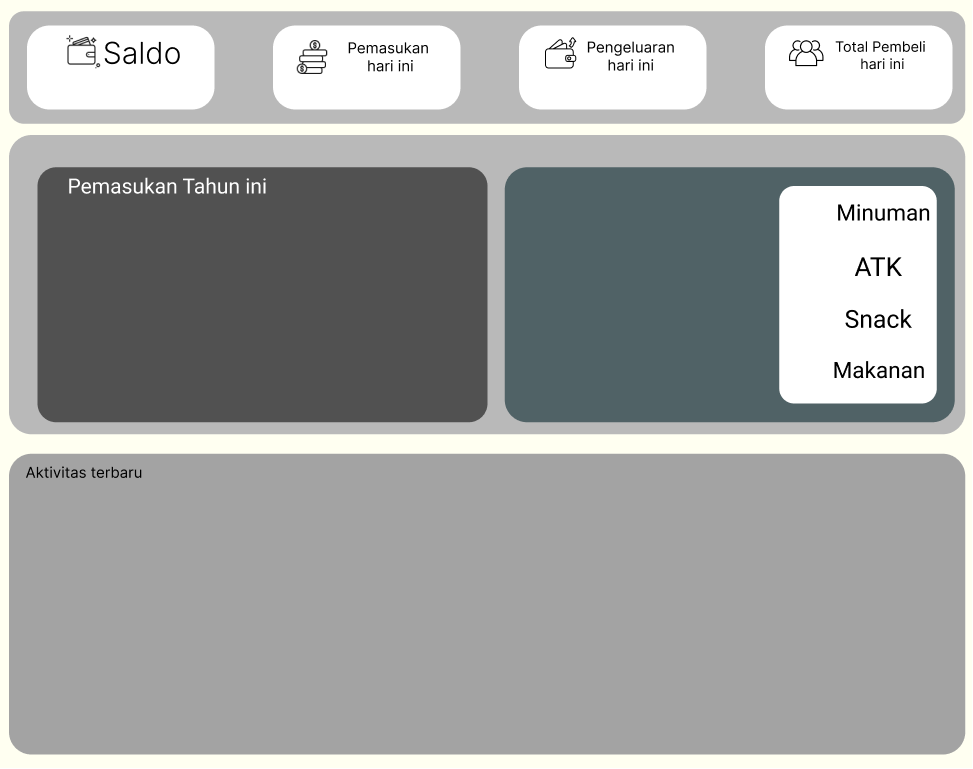
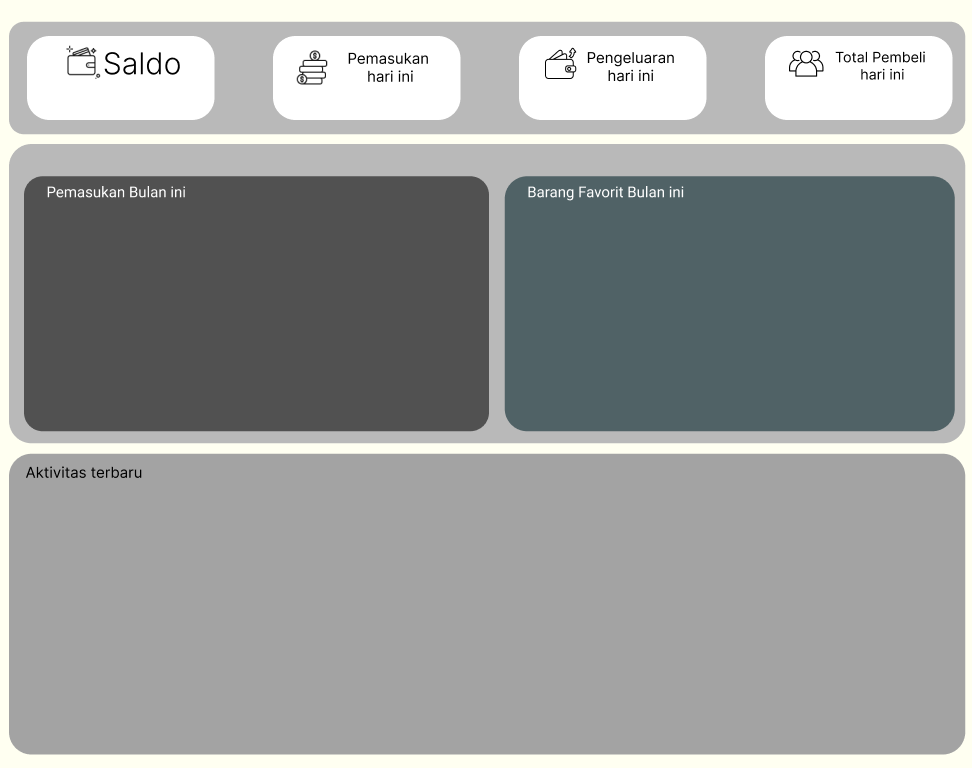
update

Changed region(s): [[0.0, 0.2185, 1.0, 0.593], [0.0, 0.0, 1.0, 0.2185]]

diff --git a/src/com/window/panels/Dashboard.java b/src/com/window/panels/Dashboard.java
@@ -1,5 +1,12 @@
 package com.window.panels;
 
+import javafx.application.Application;
+import javafx.scene.Scene;
+import javafx.scene.chart.BarChart;
+import javafx.scene.chart.CategoryAxis;
+import javafx.scene.chart.NumberAxis;
+import javafx.scene.chart.XYChart;
+import javafx.stage.Stage;
 import java.util.Date;
 import com.manage.Chart;
 import com.manage.Message;
@@ -20,6 +27,7 @@ import java.util.logging.Level;
 import java.util.logging.Logger;
 import javax.swing.event.TableModelListener;
 import javax.swing.table.DefaultTableModel;
+import javax.swing.table.TableColumnModel;
 import javax.swing.table.TableModel;
 import org.jfree.chart.ChartFactory;
 import org.jfree.chart.ChartPanel;
@@ -62,12 +70,15 @@ public class Dashboard extends javax.swing.JPanel {
     private final DateFormat tanggalFull = new SimpleDateFormat("yyyy-MM-dd hh:mm:ss ");
     private final DateFormat date = new SimpleDateFormat("dd-MM-yyyy");
     private final DateFormat date1 = new SimpleDateFormat("yyyy-MM-dd");
+    private final DateFormat time12 = new SimpleDateFormat("hh:mm:ss");
     private final DateFormat time = new SimpleDateFormat("hh:mm:ss");
     private final DateFormat timeMillis = new SimpleDateFormat("ss.SSS:mm:hh");
     private String keyword = "";
+ 
     public Dashboard() throws ParseException {
         initComponents();
         updateTabel();
+//        start(pnlLineChart);
         this.hari = waktu.getTanggal();
         this.bulan = waktu.getBulan()+1;
         this.tahun = waktu.getTahun();
@@ -80,8 +91,8 @@ public class Dashboard extends javax.swing.JPanel {
         pMinuman = getJenis("MINUMAN");
         pSnack = getJenis("SNACK");
         pAtk = getJenis("ATK");
-        this.chart.showPieChart(this.pnlPieChart, "", 40, 20, 15, 25);
-//        this.chart.showPieChart(this.pnlPieChart, "", pMakanan, pMinuman, pSnack, pAtk);
+//        this.chart.showPieChart(this.pnlPieChart, "", 40, 20, 15, 25);
+        this.chart.showPieChart(this.pnlPieChart, "", pMakanan, pMinuman, pSnack, pAtk);
         this.chart.lineChartPenjualan(this.pnlLineChart);
         this.showLineChart();
         
@@ -193,10 +204,6 @@ public class Dashboard extends javax.swing.JPanel {
         lblPemasukan = new javax.swing.JLabel();
         lblPengeluaran = new javax.swing.JLabel();
         lblPembeli = new javax.swing.JLabel();
-        lblMakanan = new javax.swing.JLabel();
-        lblMinuman = new javax.swing.JLabel();
-        lblAtk = new javax.swing.JLabel();
-        lblSnack = new javax.swing.JLabel();
         jScrollPane2 = new javax.swing.JScrollPane();
         tabelData = new javax.swing.JTable();
         pnlLineChart = new javax.swing.JPanel();
@@ -221,22 +228,6 @@ public class Dashboard extends javax.swing.JPanel {
 
         lblPembeli.setHorizontalAlignment(javax.swing.SwingConstants.CENTER);
         add(lblPembeli, new org.netbeans.lib.awtextra.AbsoluteConstraints(780, 80, 160, 20));
-
-        lblMakanan.setBackground(new java.awt.Color(10, 255, 108));
-        lblMakanan.setOpaque(true);
-        add(lblMakanan, new org.netbeans.lib.awtextra.AbsoluteConstraints(790, 350, 40, 35));
-
-        lblMinuman.setBackground(new java.awt.Color(2, 99, 255));
-        lblMinuman.setOpaque(true);
-        add(lblMinuman, new org.netbeans.lib.awtextra.AbsoluteConstraints(790, 195, 40, 35));
-
-        lblAtk.setBackground(new java.awt.Color(255, 233, 35));
-        lblAtk.setOpaque(true);
-        add(lblAtk, new org.netbeans.lib.awtextra.AbsoluteConstraints(790, 250, 40, 35));
-
-        lblSnack.setBackground(new java.awt.Color(255, 51, 102));
-        lblSnack.setOpaque(true);
-        add(lblSnack, new org.netbeans.lib.awtextra.AbsoluteConstraints(790, 300, 40, 35));
 
         tabelData.setFont(new java.awt.Font("Ebrima", 1, 14)); // NOI18N
         tabelData.setForeground(new java.awt.Color(0, 0, 0));
@@ -292,12 +283,12 @@ public class Dashboard extends javax.swing.JPanel {
         pnlLineChart.setBackground(new java.awt.Color(255, 255, 255));
         pnlLineChart.setForeground(new java.awt.Color(226, 226, 0));
         pnlLineChart.setLayout(new java.awt.BorderLayout());
-        add(pnlLineChart, new org.netbeans.lib.awtextra.AbsoluteConstraints(50, 200, 430, 210));
+        add(pnlLineChart, new org.netbeans.lib.awtextra.AbsoluteConstraints(35, 205, 445, 210));
 
         pnlPieChart.setBackground(new java.awt.Color(255, 255, 255));
         pnlPieChart.setForeground(new java.awt.Color(255, 255, 0));
         pnlPieChart.setLayout(new java.awt.BorderLayout());
-        add(pnlPieChart, new org.netbeans.lib.awtextra.AbsoluteConstraints(510, 190, 260, 210));
+        add(pnlPieChart, new org.netbeans.lib.awtextra.AbsoluteConstraints(520, 205, 420, 210));
 
         background.setIcon(new javax.swing.ImageIcon(getClass().getResource("/resources/image/gambar/app-dashboard-075.png"))); // NOI18N
         add(background, new org.netbeans.lib.awtextra.AbsoluteConstraints(0, 0, 973, 768));
@@ -328,8 +319,19 @@ public class Dashboard extends javax.swing.JPanel {
     }
     private void updateTabel() throws ParseException{
         try{
+            TableColumnModel model1 = tabelData.getColumnModel();
+            model1.getColumn(0).setMinWidth(35);
+            model1.getColumn(0).setMaxWidth(35);
+            model1.getColumn(3).setMinWidth(100);
+            model1.getColumn(3).setMaxWidth(100);
+            model1.getColumn(4).setMinWidth(80);
+            model1.getColumn(4).setMaxWidth(80);
+            model1.getColumn(5).setMinWidth(80);
+            model1.getColumn(5).setMaxWidth(80);
+            tabelData.setColumnModel(model1);
             Date tanggalData = null;
-            String kolom[] = {"No","Nama Transaksi", "Total Harga", "Jenis Transaksi", "Tanggal","Waktu"},tanggalPenuh,total,ID,data[] = new String[6];
+            Date tanggalData1 = null;
+            String kolom[] = {"No","Nama Transaksi", "Total Harga", "Jenis Transaksi", "Tanggal","Waktu"},waktu,tanggalPenuh,total,ID,data[] = new String[6];
             TableModel model;
 //            model.
             DefaultTableModel tabelModel = new DefaultTableModel(kolom,0){
@@ -367,7 +369,9 @@ public class Dashboard extends javax.swing.JPanel {
                 System.out.println("tanggal nya "+ tanggalData);
                 data[4] = date.format(tanggalData);
                 System.out.println("data ke 4 : "+ data[4]);
-                data[5] = time.format(tanggalData);
+                waktu = time12.format(tanggalData);
+                tanggalData1 = time12.parse(waktu);
+                data[5] = time.format(tanggalData1);
                 System.out.println("data ke 5 : "+ data[5]);
                 tabelModel.addRow(data);
             }
@@ -410,14 +414,18 @@ public class Dashboard extends javax.swing.JPanel {
     public void showLineChart(){
         //create dataset for the graph
         DefaultCategoryDataset dataset = new DefaultCategoryDataset();
-        dataset.setValue(170, "Amount", "Kamis");
-        dataset.setValue(150, "Amount", "Jumat");
-        dataset.setValue(80, "Amount", "Sabtu");
-        dataset.setValue(50, "Amount", "Minggu");
-        dataset.setValue(180, "Amount", "Senin");
-        dataset.setValue(200, "Amount", "Selasa");
-        dataset.setValue(200, "Amount", "Rabu");
-        //
+        dataset.addValue(170, "Amount", "Minggu 1");
+        dataset.addValue(150, "Amount", "Minggu 2");
+        dataset.addValue(80, "Amount", "Minggu 3");
+        dataset.addValue(50, "Amount", "Minggu 4");
+//        dataset.setValue(170, "Amount", "Kamis");
+//        dataset.setValue(150, "Amount", "Jumat");
+//        dataset.setValue(80, "Amount", "Sabtu");
+//        dataset.setValue(50, "Amount", "Minggu");
+//        dataset.setValue(180, "Amount", "Senin");
+//        dataset.setValue(200, "Amount", "Selasa");
+//        dataset.setValue(200, "Amount", "Rabu");
+        
         //create chart
         JFreeChart linechart = ChartFactory.createLineChart("","","", 
                 dataset, PlotOrientation.VERTICAL, false,true,false);
@@ -432,12 +440,12 @@ public class Dashboard extends javax.swing.JPanel {
         LineAndShapeRenderer lineRenderer = (LineAndShapeRenderer) lineCategoryPlot.getRenderer();
         Color lineChartColor = new Color(255,2,9);
         lineRenderer.setSeriesPaint(0, lineChartColor);
-        
+//        linechart.
          //create chartPanel to display chart(graph)
         ChartPanel lineChartPanel = new ChartPanel(linechart);
-//        pnlLineChart.removeAll();
-//        pnlLineChart.add(lineChartPanel, BorderLayout.CENTER);
-//        pnlLineChart.validate();
+        pnlLineChart.removeAll();
+        pnlLineChart.add(lineChartPanel, BorderLayout.CENTER);
+        pnlLineChart.validate();
     }
 
     public void showHistogram(){
@@ -497,15 +505,11 @@ public class Dashboard extends javax.swing.JPanel {
     // Variables declaration - do not modify//GEN-BEGIN:variables
     private javax.swing.JLabel background;
     private javax.swing.JScrollPane jScrollPane2;
-    private javax.swing.JLabel lblAtk;
     private javax.swing.JLabel lblDate;
-    private javax.swing.JLabel lblMakanan;
-    private javax.swing.JLabel lblMinuman;
     private javax.swing.JLabel lblPemasukan;
     private javax.swing.JLabel lblPembeli;
     private javax.swing.JLabel lblPengeluaran;
     private javax.swing.JLabel lblSaldo;
-    private javax.swing.JLabel lblSnack;
     private javax.swing.JPanel pnlLineChart;
     private javax.swing.JPanel pnlPieChart;
     private javax.swing.JTable tabelData;

diff --git a/src/com/manage/Chart.java b/src/com/manage/Chart.java
@@ -27,8 +27,8 @@ import org.jfree.data.statistics.HistogramDataset;
  */
 public class Chart {
     
-    private final Color C_MAKANAN = new Color(226,226,0), C_MINUMAN = new Color(52,200,38), 
-                        C_SNACK = new Color(255,43,237), C_ATK = new Color(49,165,192),
+    private final Color C_MAKANAN = new Color(10,255,108), C_MINUMAN = new Color(2,99,255), 
+                        C_SNACK = new Color(255,51,102), C_ATK = new Color(255,233,35),
                         BG_CHART = Color.WHITE;
     
     private final Font F_PRODUK = new Font("Ebrima", 1, 22);
@@ -36,12 +36,19 @@ public class Chart {
     public void showPieChart(JPanel panel, String title, Font font, double makanan, double minuman, double snack, double atk){
         
         //create dataset
-        DefaultPieDataset barDataset = new DefaultPieDataset( );
-        barDataset.setValue( "Makanan", new Double(makanan));  
-        barDataset.setValue( "Minuman", new Double(minuman));   
-        barDataset.setValue( "Snack", new Double(snack));    
-        barDataset.setValue( "ATK", new Double(atk));  
-
+        DefaultPieDataset barDataset = new DefaultPieDataset();
+        if(makanan > 1){
+            barDataset.setValue( "Makanan", new Double(makanan));  
+        }
+        if(minuman > 1){
+            barDataset.setValue( "Minuman", new Double(minuman));   
+        }
+        if(snack > 1){
+            barDataset.setValue( "Snack", new Double(snack));    
+        }
+        if(atk > 1){
+            barDataset.setValue( "ATK", new Double(atk));  
+        }
         //create chart
         JFreeChart piechart = ChartFactory.createPieChart("Penjualan Produk",barDataset, false,true,false);//explain
         piechart.setTitle(new TextTitle(title, font));
